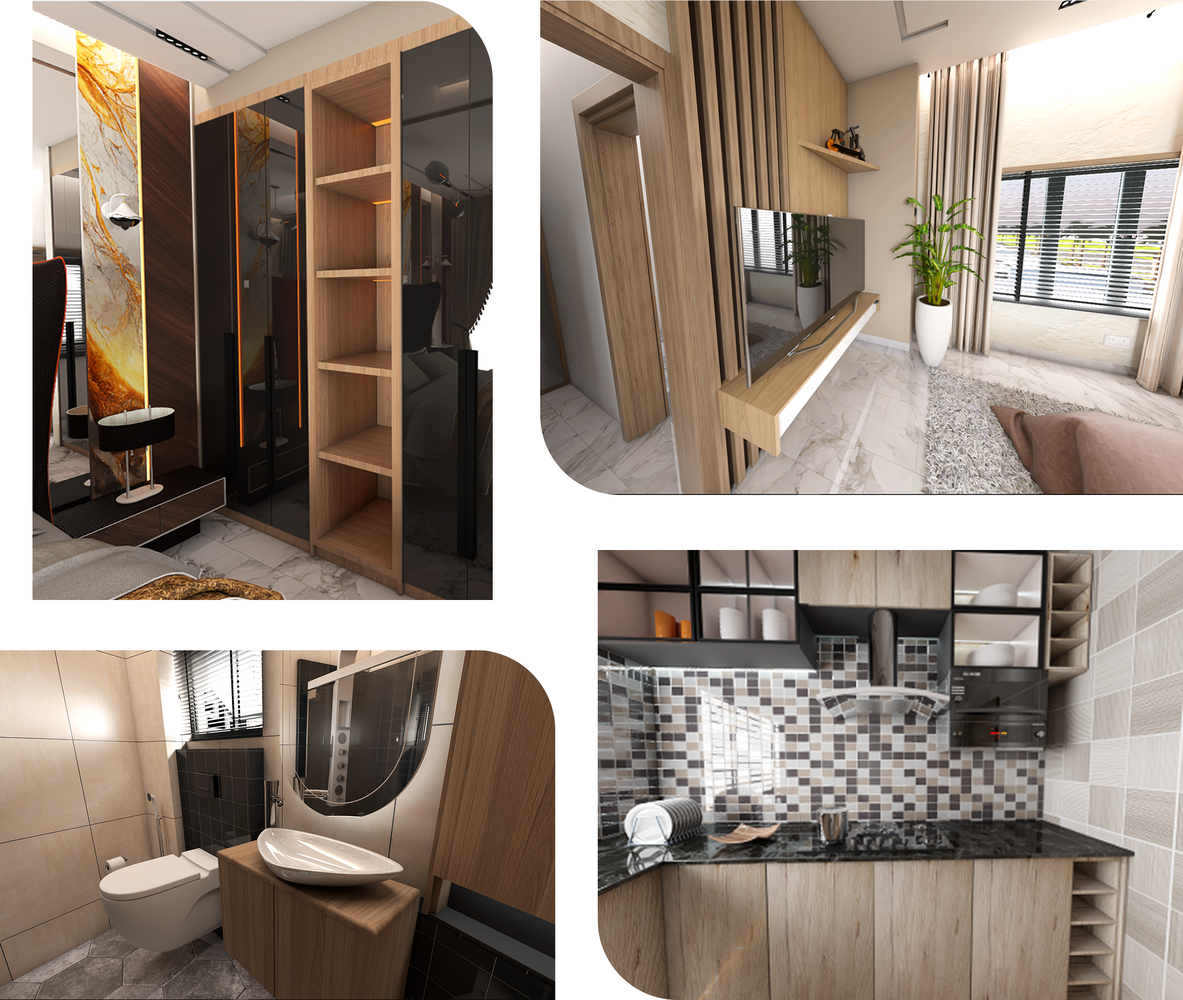
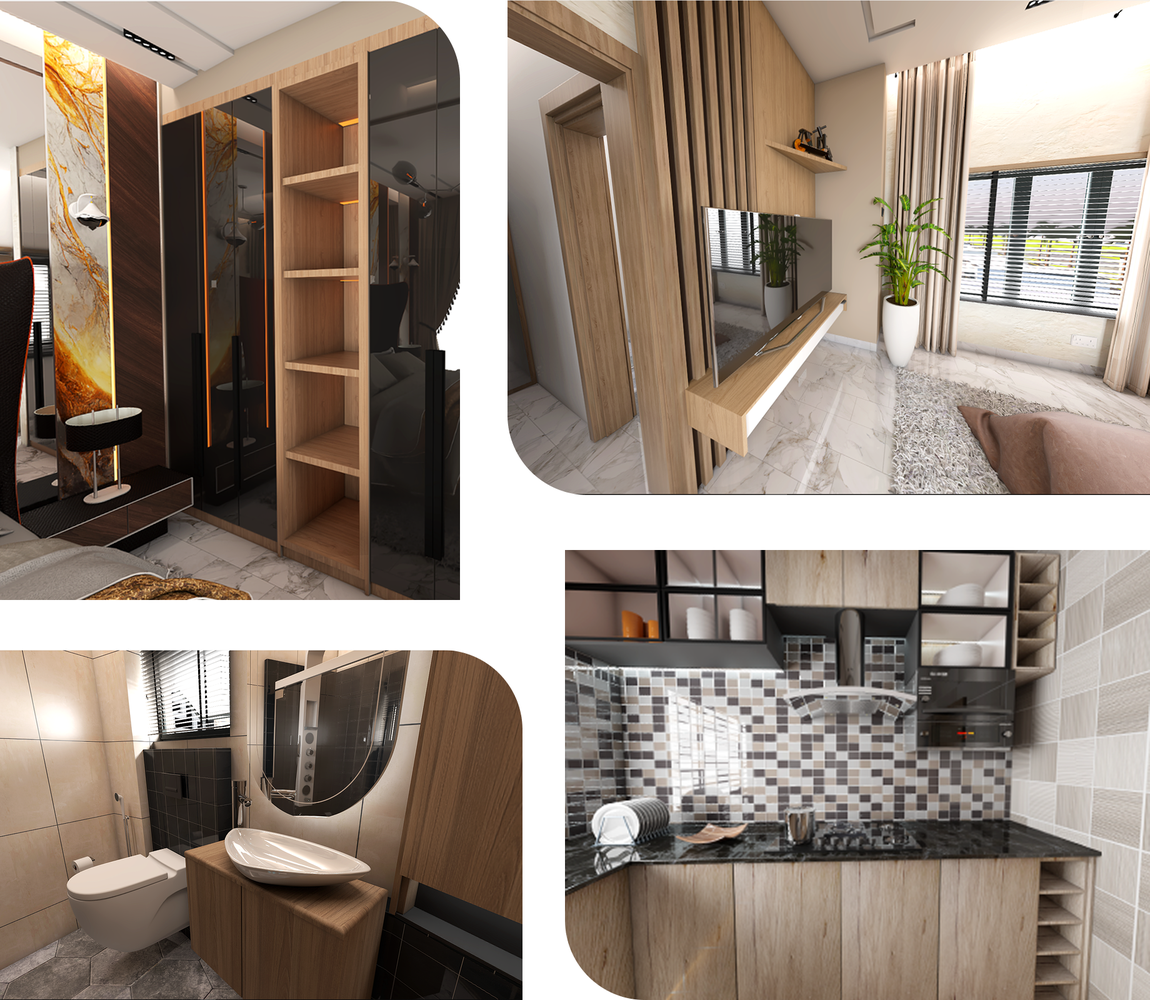
Completed the features section's responsiveness and Created the Sign up page as well

diff --git a/src/components/Features.jsx b/src/components/Features.jsx
@@ -1,37 +1,98 @@
 import realtyImageGroup from "../assets/realtyImageGroup.png";
+import realtyImageGroup2 from "../assets/realtyImageGroup2.png";
 import directArrow from "../assets/directArrow.svg";
 
 const Features = () => {
-    return (
-        <div>
-            <section className="background text-white h-fit mb-32">
-                <div className="mx-auto">
-                  <div className="flex flex-col lg:flex-row">
-                    <div className="space-y-6 w-full md:w-1/2 flex flex-col justify-center items-center p-4">
-                      <h1 className="text-4xl font-semibold -ml-20">REALTY</h1>
-                      <ul className="space-y-4">
-                        <li>&nbsp;• Spacious</li>
-                        <li>&nbsp;• Pre wired AC</li>
-                        <li>&nbsp;• Maid Quarters</li>
-                        <li>&nbsp;• Home Security</li>
-                        <li>&nbsp;• Home Automation</li>
-                        <li>&nbsp;• Dedicated Laundry Space</li>
-                      </ul>
-                      <div className="inline-flex items-center pb-2 group cursor-pointer">
-                        <span className="mr-4 font-semibold border-b-2 border-white w-36">EXPLORE REALTY</span>
-                        <div className="w-8 h-8 rounded-full bg-white flex items-center justify-center">
-                          <img src={directArrow} alt="arrow-direction" className="w-4 h-4"/>
-                        </div>
-                      </div>
-                    </div>
-                    <div className="w-full md:w-1/2">
-                      <img src={realtyImageGroup} alt="group of images" className="h-full"/>
-                    </div>
+  return (
+    <div>
+      <section className="background text-white">
+        {/* Mobile view */}
+        <div className="lg:hidden py-12">
+          <h1 className="text-4xl font-semibold mb-6 px-8">REALTY</h1>
+          
+          {/* Features in two columns */}
+          <div className="grid grid-cols-2 gap-x-4 gap-y-2 mb-8 px-8">
+            <div className="flex items-start">
+              <span className="mr-2">•</span>
+              <span>Spacious</span>
+            </div>
+            <div className="flex items-start">
+              <span className="mr-2">•</span>
+              <span>Home security</span>
+            </div>
+            <div className="flex items-start">
+              <span className="mr-2">•</span>
+              <span>Pre wired AC</span>
+            </div>
+            <div className="flex items-start">
+              <span className="mr-2">•</span>
+              <span>Home Automation</span>
+            </div>
+            <div className="flex items-start">
+              <span className="mr-2">•</span>
+              <span>Maid quaters</span>
+            </div>
+            <div className="flex items-start">
+              <span className="mr-2">•</span>
+              <span>Dedicated laundry space</span>
+            </div>
+          </div>
+          
+          {/* Mobile image grid */}
+          <div className="mb-8 w-full">
+            <div className="h-fit w-full">
+              <img 
+                src={realtyImageGroup2} 
+                alt="Wardrobe" 
+                className="w-full h-full object-cover"
+              />
+            </div>
+            
+          </div>
+          
+          {/* Explore button */}
+          <div className="flex justify-end items-center px-8">
+            <span className="mr-4 font-medium border-b-2 border-white">EXPLORE REALTY</span>
+            <div className="w-8 h-8 rounded-full bg-white flex items-center justify-center">
+              <img src={directArrow} alt="arrow-direction" className="w-4 h-4"/>
+            </div>
+          </div>
+        </div>
+        
+        {/* Desktop view */}
+        <div className="hidden lg:block">
+          <div className="mx-auto">
+            <div className="flex flex-row">
+              <div className="space-y-6 w-1/2 flex flex-col justify-center items-center p-4">
+                <h1 className="text-4xl font-semibold -ml-20">REALTY</h1>
+                <ul className="space-y-4">
+                  <li>&nbsp;• Spacious</li>
+                  <li>&nbsp;• Pre wired AC</li>
+                  <li>&nbsp;• Maid Quarters</li>
+                  <li>&nbsp;• Home Security</li>
+                  <li>&nbsp;• Home Automation</li>
+                  <li>&nbsp;• Dedicated Laundry Space</li>
+                </ul>
+                <div className="inline-flex items-center pb-2 group cursor-pointer">
+                  <span className="mr-4 font-semibold border-b-2 border-white w-36">EXPLORE REALTY</span>
+                  <div className="w-8 h-8 rounded-full bg-white flex items-center justify-center">
+                    <img src={directArrow} alt="arrow-direction" className="w-4 h-4"/>
                   </div>
                 </div>
-            </section>
+              </div>
+              <div className="w-1/2">
+                <img 
+                  src={realtyImageGroup} 
+                  alt="group of images" 
+                  className="h-full w-full object-cover"
+                />
+              </div>
+            </div>
+          </div>
         </div>
-    )
-}
+      </section>
+    </div>
+  );
+};
 
 export default Features;

diff --git a/src/components/SignUp.jsx b/src/components/SignUp.jsx
@@ -1,0 +1,135 @@
+import React, { useState } from 'react';
+import blueDirectArrow from '../assets/blueDirectArrow.svg';
+const SignUp = () => {
+  const [formData, setFormData] = useState({
+    fullName: '',
+    mobileNumber: '',
+    emailAddress: ''
+  });
+  
+  const [errors, setErrors] = useState({});
+  const [isSubmitting, setIsSubmitting] = useState(false);
+  
+  const validate = () => {
+    const newErrors = {};
+    
+    if (!formData.fullName.trim()) {
+      newErrors.fullName = 'Full name is required';
+    }
+    
+    if (!formData.mobileNumber.trim()) {
+      newErrors.mobileNumber = 'Mobile number is required';
+    } else if (!/^\+?[0-9\s\-()]{8,20}$/.test(formData.mobileNumber)) {
+        newErrors.mobileNumber = 'Please enter a valid mobile number';
+    }
+    
+    if (!formData.emailAddress.trim()) {
+      newErrors.emailAddress = 'Email address is required';
+    } else if (!/\S+@\S+\.\S+/.test(formData.emailAddress)) {
+      newErrors.emailAddress = 'Please enter a valid email address';
+    }
+    
+    setErrors(newErrors);
+    return Object.keys(newErrors).length === 0;
+  };
+  
+  const handleChange = (e) => {
+    const { name, value } = e.target;
+    setFormData({
+      ...formData,
+      [name]: value
+    });
+  };
+  
+  const handleSubmit = (e) => {
+    e.preventDefault();
+    setIsSubmitting(true);
+    
+    if (validate()) {
+      //send the data to your backend here
+      console.log('Form submitted successfully', formData);
+      // Resetting form 
+      setFormData({
+        fullName: '',
+        mobileNumber: '',
+        emailAddress: ''
+      });
+    }
+    
+    setIsSubmitting(false);
+  };
+  
+  return (
+    <div className="flex flex-col md:flex-row mx-auto overflow-hidden">
+      {/* Left section*/}
+      <div className="bg-white p-12 md:p-24 md:w-1/2 flex flex-col justify-center">
+        <h1 className="text-4xl md:text-6xl font-semibold mb-6 text">SIGN UP</h1>
+        <p className="text mb-2 font-medium">
+          Be the first to know about new homes with AKHCON Realty! Sign
+          up for our waitlist to receive updates on stunning properties
+          before they're released. Find your dream home effortlessly and
+          enjoy a seamless home-buying experience.
+        </p>
+      </div>
+      
+      {/* Right section - Form */}
+      <div className="bg-white p-12 md:p-24 md:w-1/2 flex flex-col justify-center">
+        <h2 className="text-2xl md:text-3xl font-semibold mb-6 text">Let's Find your dream home together</h2>
+        
+        <form onSubmit={handleSubmit} className="flex flex-col space-y-4">
+          <div>
+            <input
+              type="text"
+              name="fullName"
+              value={formData.fullName}
+              onChange={handleChange}
+              placeholder="Full Name"
+              className={`w-full p-4 border rounded-bl-4xl text font-medium ${errors.fullName ? 'border-red-500' : 'border-[#822e27]'}`}
+            />
+            {errors.fullName && <p className="text-red-500 text-sm mt-1">{errors.fullName}</p>}
+          </div>
+          
+          <div>
+            <input
+              type="tel"
+              name="mobileNumber"
+              value={formData.mobileNumber}
+              onChange={handleChange}
+              placeholder="Mobile Number"
+              className={`w-full p-4 border rounded-bl-4xl text font-medium ${errors.mobileNumber ? 'border-red-500' : 'border-[#822e27]'}`}
+            />
+            {errors.mobileNumber && <p className="text-red-500 text-sm mt-1">{errors.mobileNumber}</p>}
+          </div>
+          
+          <div>
+            <input
+              type="email"
+              name="emailAddress"
+              value={formData.emailAddress}
+              onChange={handleChange}
+              placeholder="Email Address"
+              className={`w-full p-4 border rounded-bl-4xl text font-medium ${errors.emailAddress ? 'border-red-500' : 'border-[#822e27]'}`}
+            />
+            {errors.emailAddress && <p className="text-red-500 text-sm mt-1">{errors.emailAddress}</p>}
+          </div>
+          
+          <div className="flex justify-end items-center">
+            <button
+              type="submit"
+              disabled={isSubmitting}
+              className="text-[#6ca2e3] flex items-center justify-center cursor-pointer"
+            >
+                <span className="mr-4 font-medium border-b-2 border-[#6ca2e3]">SIGN UP</span>
+                <div className="w-8 h-8 rounded-full bg-white flex items-center justify-center">
+                  <img src={blueDirectArrow} alt="arrow-direction" className="w-full"/>
+                </div>
+
+            </button>
+          </div>
+        </form>
+      </div>
+    </div>
+  );
+};
+
+export default SignUp;

diff --git a/src/pages/Home.jsx b/src/pages/Home.jsx
@@ -1,13 +1,14 @@
 import NavBar from "../components/NavBar";
 import Hero from "../components/Hero.jsx";
 import About from "../components/About.jsx";
+import SignUp from "../components/SignUp.jsx";
 import Features from "../components/Features.jsx";
 import explorePic from "../assets/explorePic.png";
-
 import "../styles/general.css";
+
 const Home = () => {
     return (
-      <div className="min-h-screen flex flex-col">
+    <div className="min-h-screen flex flex-col">
       <div style={{backgroundImage: `url(${explorePic})`, backgroundSize: "cover", backgroundPosition: "center"}} className="h-fit border-bottom-left-rounded">
         {/* Navigation */}
         <NavBar/>
@@ -21,6 +22,9 @@ const Home = () => {
 
       {/* Features Section */}
       <Features/>
+
+      {/* SignUp Section */}
+      <SignUp/>
       
     </div>
     )
